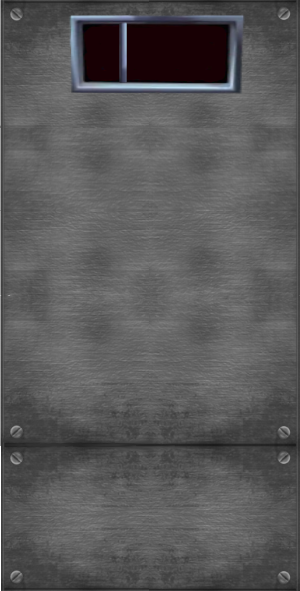
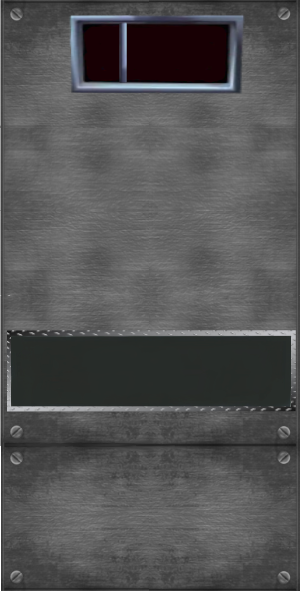
task submition works, except timer

Changed region(s): [[0.0, 0.5482, 0.99, 0.7005]]

diff --git a/object_classes.py b/object_classes.py
@@ -63,17 +63,30 @@ class GUIObject:
 
 class TextObject(GUIObject):
     def __init__(self, gui_options, text, color=BLACK, size=15, max_len=80, spacing=40, font='monospace', centered=True, **kwargs):
-        font = pygame.font.SysFont(font, size)
-        super().__init__(*gui_options, *font.size(text), **kwargs)
-        self.fonts = [font.render(line, True, color) for line in self.divide_text(text, max_len)]
-        self.rects = []
+        self.font = pygame.font.SysFont(font, size)
+        super().__init__(*gui_options, *self.font.size(text), **kwargs)
+        self.color = color
+        self.text = text
+        self.max_len = max_len
         self.spacing = spacing
+        self.centered = centered
+        self.update_text(text, color)
+        
+
+    def update_text(self, text=None, color=None):
+        if color is not None:
+            self.color = color
+        if text is not None:
+            self.text = text
+        self.fonts = [self.font.render(line, True, self.color) for line in self.divide_text(self.text, self.max_len)]
+        self.rects = []
         for i, font in enumerate(self.fonts):
             self.rects.append(font.get_rect())
-            if not centered:
+            if not self.centered:
                 self.rects[-1].center = self.x + self.width // 2, self.y + self.height // 2 + i * self.spacing
             else:
                 self.rects[-1].center = self.x, self.y + i * self.spacing
+
 
     def draw(self, screen):
         for font, rect in zip(self.fonts, self.rects):
@@ -267,7 +280,7 @@ class DialogueObject(GUIObject):
         self.surface.fill(self.BOX_BACKGROUND)
         self.text = text
         self.clicked = False
-        self.fonts = [self.FONT.render(txt, True, BLUE) for txt in TextObject.divide_text(text, self.width // 16)]
+        self.fonts = [self.FONT.render(txt, True, WHITE) for txt in TextObject.divide_text(text, self.width // 16)]
         self.DARK_SURFACE.set_alpha(200)
         x, y, width, _ = gui_options
         self.CLOSE_ICON = ImageObject((x + width - 45, y - 5), 'resources/gfx/misc/but-close.png')
@@ -486,32 +499,45 @@ class TaskPanelObject(GUIObject):
             self.tests = tests
 
         def submit(self, parent):
+            parent.submit_message.update_text('Automatic correction in progress... Please wait.', pygame.Color('lightskyblue3'))
+            result = self._process_submit()
+            parent.result = result
+
+            message_dict = {
+                'OK': ('Success!', SUCCESS),
+                'WA': ('Wrong answer!', ERROR),
+                'TLE': ('Time limit exceeded.', ERROR),
+                'EXC': ('Your program returned non zero value (see console).', ERROR),
+                'FNF': (f'File {self.name + ".py"} not found in submits folder', WARNING),
+                'ERR': ('Something went seriously wrong. Check console and contact admin.', ERROR),
+            }
+            parent.submit_message.update_text(*message_dict[result])
+
+        def _process_submit(self):
             start_time = time.time()
             for test_input, correct_output in self.tests:
                 try:
                     for cmd in 'python', 'python3':
                         process = Popen([cmd, f'submits/{self.name}.py'], stdin=PIPE, stdout=PIPE, stderr=PIPE, encoding='utf-8')
-                        user_output, _ = process.communicate(input=test_input, timeout=self.TIMEOUT)
+                        user_output, error_output = process.communicate(input=test_input, timeout=self.TIMEOUT)
                         if not process.returncode:
                             break
+                        if process.returncode == 2:
+                            return 'FNF'
                     else:
-                        parent.result = 'EXC'
-                        return
+                        print(error_output)
+                        return 'EXC'
                 except TimeoutExpired:
                     process.kill()
-                    parent.result = 'TLE'
-                    return
+                    return 'TLE'
                 except Exception as exc:
                     print(exc)
-                    parent.result = 'ERR'
-                    return
+                    return 'ERR'
                 if user_output != correct_output + '\n':
-                    parent.result = 'WA'
-                    return
+                    return 'WA'
                 if time.time() - start_time > self.time_limit:
-                    parent.result = 'TLE'
-                    return
-            parent.result = 'OK'
+                    return 'TLE'
+            return 'OK'
 
     def __init__(self, centered=True, **kwargs):
         x_mid, y_mid = RESOLUTION[0] // 2, RESOLUTION[1] // 2
@@ -524,9 +550,12 @@ class TaskPanelObject(GUIObject):
         self.panel_top = ImageObject((x_mid, y_mid + 190), 'resources/gfx/task-panel/panel-top.png', centered=True, scale=(100, 100))
         self.left_arrow = ImageObject((x_mid - 140, y_mid - 230), 'resources/gfx/task-panel/left-arrow.png', scale=(50, 50))
         self.right_arrow = ImageObject((x_mid + 90, y_mid - 230), 'resources/gfx/task-panel/right-arrow.png', scale=(50, 50))
+        self.task_number_text = TextObject((x_mid - 50, y_mid - 205), '1', color=RED, size=40)
         self.current_task = 0
+        self.is_completed = False
         self.result = None
         self.tasks = [self.Task(*task) for task in TASKS]
+        self.submit_message = TextObject((x_mid, y_mid + 45), f'Leave {self.tasks[0].name + ".py"} in sumbits folder and press SUBMIT to submit.', color=WARNING, max_len=22, spacing=15, centered=True)
         self.dialogues = [DialogueObject((150, 200, 700, 300), task.text, obj_id=self.obj_id, app=self._app_instance) for task in self.tasks]
 
     def handle_event(self, event):
@@ -534,23 +563,32 @@ class TaskPanelObject(GUIObject):
             self.dialogues[self.current_task].handle_event(event)
             return
         if event.type == pygame.MOUSEBUTTONDOWN and event.button == 1:
+            if self.elevator_button.reactive and self.elevator_button.collision():
+                self.elevator_button.disable()
+                self._app_instance.current_level.get_object('elevator_button_down').enable()
+            if self.is_completed:
+                return
             if self.button_submit.collision():
                 thread = threading.Thread(target=self.tasks[self.current_task].submit, args=[self])
                 thread.start()
             elif self.button_task.collision():
                 self.dialogues[self.current_task].enable()
-            elif self.elevator_button.reactive and self.elevator_button.collision():
-                self.elevator_button.disable()
-                self._app_instance.current_level.get_object('elevator_button_down').enable()
             elif self.left_arrow.reactive and self.left_arrow.collision():
                 self.current_task -= 1
+                self.submit_message.update_text(f'Leave {self.tasks[self.current_task].name + ".py"} in sumbits folder and press SUBMIT to submit.')
+                self.task_number_text.update_text(str(self.current_task + 1))
             elif self.right_arrow.reactive and self.right_arrow.collision():
                 self.current_task += 1
+                self.submit_message.update_text(f'Leave {self.tasks[self.current_task].name + ".py"} in sumbits folder and press SUBMIT to submit.')
+                self.task_number_text.update_text(str(self.current_task + 1))
 
     def update(self):
         if self.result == 'OK':
+            self.is_completed = True
             self.panel_top.disable()
             self.elevator_button.enable()
+            self.task_number_text.update_text(color=SUCCESS)
+            self.result = None
 
         if self.dialogues[self.current_task].active:
             self.dialogues[self.current_task].update()
@@ -566,25 +604,20 @@ class TaskPanelObject(GUIObject):
 
     def draw(self, screen):
         self.panel.draw(screen)
-        if self.result is not None:
-            #self.result_text_object.draw(screen)
-            print(self.result)
-            self.result = None
         
-        if self.elevator_button.visible:
-            self.elevator_button.draw(screen)
-        if self.panel_top.visible:
-            self.panel_top.draw(screen)
-        
-        if self.button_submit.visible:
-            self.button_submit.draw(screen)
-        if self.button_task.visible:
-            self.button_task.draw(screen)
+        self.task_number_text.draw(screen)
+        self.button_submit.draw(screen)
+        self.button_task.draw(screen)
+        self.submit_message.draw(screen)
 
         if self.left_arrow.visible:
             self.left_arrow.draw(screen)
         if self.right_arrow.visible:
             self.right_arrow.draw(screen)
+        if self.elevator_button.visible:
+            self.elevator_button.draw(screen)
+        if self.panel_top.visible:
+            self.panel_top.draw(screen)
 
         if self.dialogues[self.current_task].visible:
             self.dialogues[self.current_task].draw(screen)
@@ -599,6 +632,7 @@ class TaskPanelObject(GUIObject):
         self.panel_top.move_coords(x, y)
         self.left_arrow.move_coords(x, y)
         self.right_arrow.move_coords(x, y)
+        self.submit_message.move_coords(x, y)
 
 
 class ChangeLevelObject(GUIObject):

diff --git a/tasks.py b/tasks.py
@@ -6,8 +6,7 @@ TASKS = [
         'binary_search',
         'Vstup obsahuje 2 riadky. Na prvom riadku je n (n >= 1) unikátnych celých čísel oddelených medzerami, usporiadaných vzostupne. '
         'Na druhom riadku k (k >= 1) celých čísel. Pre každé číslo k zisti, či sa vyskytuje v prvom riadku. '
-        'Každý index vypisuj na nový riadok'
-        'Ak áno, vypíš jeho index, inak -1.',
+        'Ak áno, vypíš jeho index, inak -1. Každý index vypisuj na nový riadok',
         5,  # Time limit in seconds
         [
             ('-1\n-1', '0'),

diff --git a/main.py b/main.py
@@ -17,6 +17,7 @@ class App:
         pygame.display.set_caption(self.APP_NAME)
         self.pg_screen = pygame.display.set_mode(RESOLUTION)
         self.quit = False
+        self.easy_mode = False
         self.debug = True
         self.current_level_id = 0
         self._timer = Timer()

diff --git a/constants.py b/constants.py
@@ -8,3 +8,6 @@ DARKTBLUE = (0, 0, 100)
 BLACK = (0, 0, 0)
 YELLOW = (255, 255, 0)
 WOODEN = (200, 150, 25)
+WARNING = (210, 120, 50)
+ERROR = (180, 20, 20)
+SUCCESS = (80, 170, 40)
